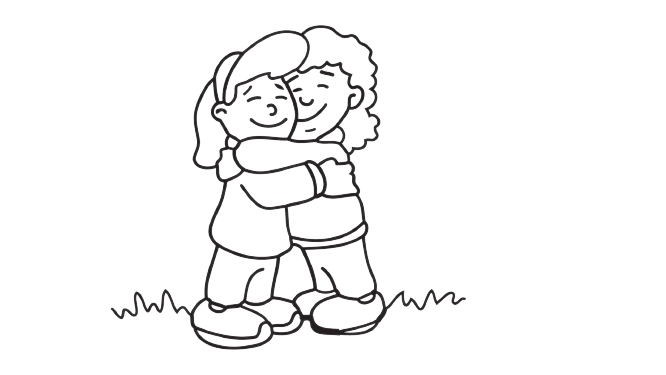
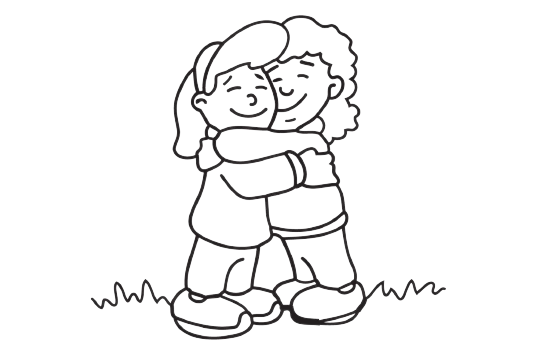
cropped resume pictures so they are centered

Changed region(s): [[0.1479, 0.0308, 0.8281, 0.9552]]

diff --git a/style.css b/style.css
@@ -336,9 +336,12 @@ li.mobile {
 #resume-list li {
     font-size: 4rem;
     margin: 2em 0em 0em 0em;
-    
+    width: 100%;
+    height: 2em;
 }
-#resume-item1 {
+    
+
+/* #resume-item1 {
     width: 100%;
     height: 2em;
 }
@@ -363,7 +366,7 @@ li.mobile {
     height: 2em;
     margin-bottom: 3em;
 }
-
+ */
 
 
 /*============ END RESUME  SPECIFIC===========*/
